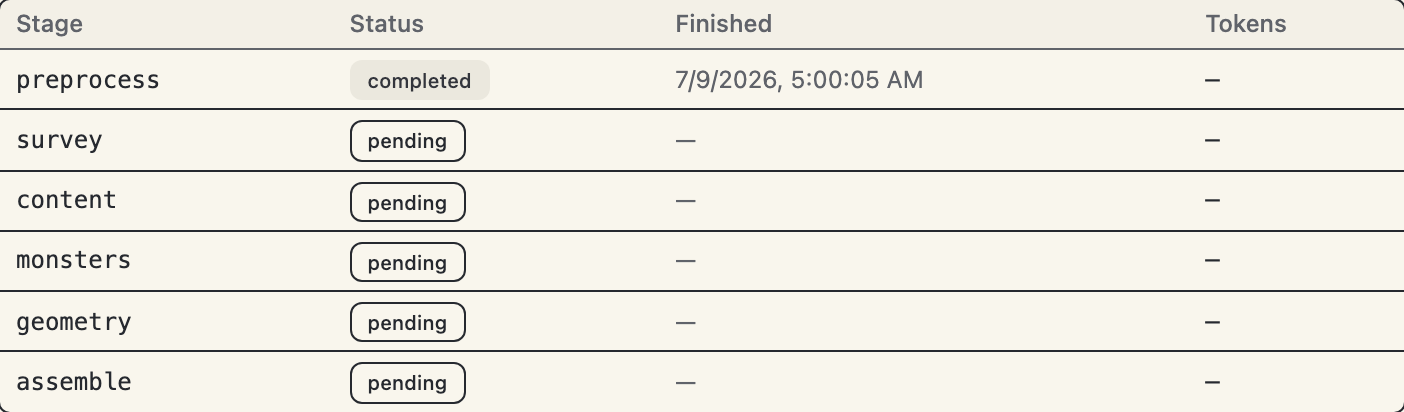
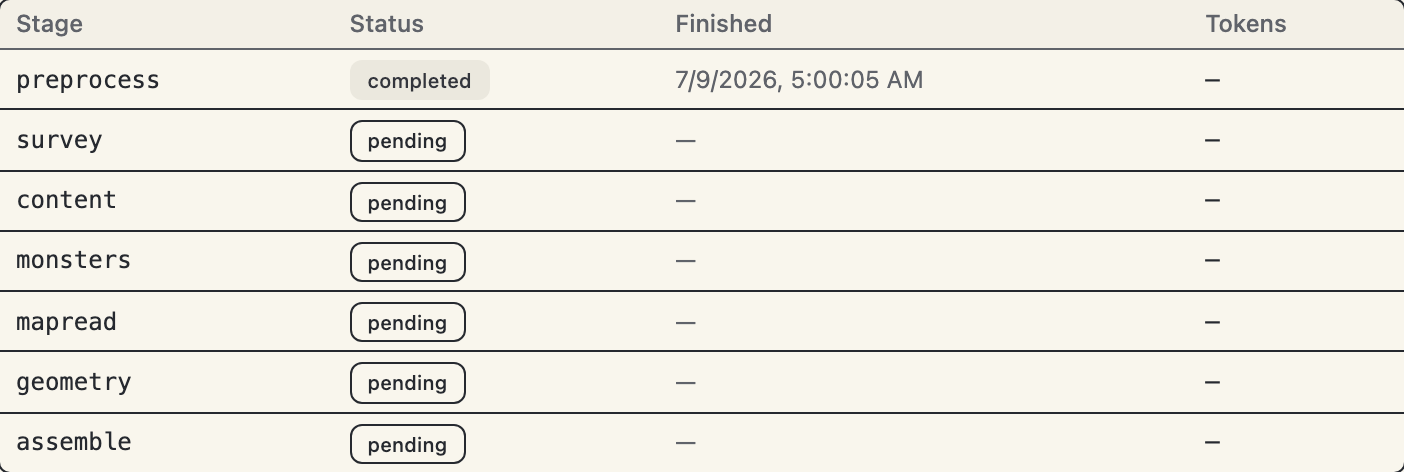
Show osr-forge 0.2's mapread stage, census request, flags, and vetoed picks
The editor now handles everything osr-forge 0.2.0 adds to a conversion.

- The stage rows run preprocess, survey, content, monsters, mapread,
  geometry, assemble. A workdir that osr-forge 0.1 converted has no mapread
  entry in run.json, so its mapread row reads pending.
- Mapread calls the model, so a rerun from mapread needs a provider, and
  the confirm copy names it among the stages a resume runs.
- The estimate card lists the census and mapread requests as rows, so its
  rows add up to the estimate's totals.
- The review queue parses resolution_suspect, survey_disputed, and
  map_disputed.
- The monster-resolution panel shows a vetoed pick and the veto's detail on
  the row of the name it was vetoed for.
- render_workdir_previews returns only the level SVGs. osr-forge 0.2 also
  returns previews/index.html, which made the previews route fail.

The chunk's tests lose their xfail and skip markers. The estimate-card and
pipeline-stages screenshots are recaptured, the forge-backed review guide
describes vetoed picks, and the changelog entry for the 0.2 requirement
says what the editor shows.

Claude-Session: https://claude.ai/code/session_01YawzxEyAff8ovZSDzNmMAK

Changed region(s): [[0.0, 0.0291, 1.0, 0.9903]]

diff --git a/frontend/src/lib/conversion.test.ts b/frontend/src/lib/conversion.test.ts
@@ -57,10 +57,9 @@ describe('the lifecycle predicates', () => {
     expect(firstIncompleteStage(done)).toBe('assemble')
   })
 
-  // chunk: forge-0.2. osr-forge 0.2.0 runs a mapread model stage between
-  // monsters and assemble, so a resume can start there and a resume from
-  // earlier runs it. Remove `.skip` when the chunk merges.
-  test.skip('a chain complete through monsters resumes from mapread', () => {
+  // osr-forge 0.2.0 runs a mapread model stage between monsters and
+  // assemble, so a resume can start there and a resume from earlier runs it.
+  test('a chain complete through monsters resumes from mapread', () => {
     expect(
       firstIncompleteStage(
         makeStageRows({ survey: 'completed', content: 'completed', monsters: 'completed' }),
@@ -68,8 +67,7 @@ describe('the lifecycle predicates', () => {
     ).toBe('mapread')
   })
 
-  // chunk: forge-0.2. Remove `.skip` when the chunk merges.
-  test.skip('the model stages a resume runs are what the confirm copy names', () => {
+  test('the model stages a resume runs are what the confirm copy names', () => {
     expect(modelStagesFrom('preprocess')).toEqual(['survey', 'content', 'monsters', 'mapread'])
     expect(modelStagesFrom('monsters')).toEqual(['monsters', 'mapread'])
     expect(modelStagesFrom('mapread')).toEqual(['mapread'])
@@ -93,11 +91,10 @@ describe('the estimate formatting', () => {
     expect(formatUsd(0)).toBe('$0.00')
   })
 
-  // chunk: forge-0.2. osr-forge 0.2.0 prices the survey's census request and
-  // the mapread stage, and the estimate's totals include both. Each gets a
-  // row in chain order, so the rows add up to the totals. Remove `.skip` when
-  // the chunk merges.
-  test.skip('the per-stage rows are every priced request, in chain order, and sum to the totals', () => {
+  // osr-forge 0.2.0 prices the survey's census request and the mapread
+  // stage, and the estimate's totals include both. Each gets a row in chain
+  // order, so the rows add up to the totals.
+  test('the per-stage rows are every priced request, in chain order, and sum to the totals', () => {
     const estimate = makeCostEstimate()
     const rows = estimateRows(estimate)
     expect(rows).toEqual([

diff --git a/frontend/src/components/monster-resolution-panel.tsx b/frontend/src/components/monster-resolution-panel.tsx
@@ -2,7 +2,8 @@
 // surface. Per name, the two corrections as a stated either/or — remap
 // through the monster picker, or the printed-notation form over forge's
 // StatBlockOverride fields (corrections land pre-mapping; reviewing against
-// the printed page is the point).
+// the printed page is the point). A name whose catalog pick the stat-block
+// veto discarded also shows that pick and the veto's detail on its row.
 import { useState } from 'react'
 
 import { MonsterPicker } from '@/components/monster-picker'
@@ -60,6 +61,9 @@ export function MonsterResolutionPanel({ project }: { project: ProjectState }) {
   const names = new Set<string>(report.monsters.unresolved)
   const customByName = new Map(report.monsters.custom.map((record) => [record.name, record]))
   for (const record of report.monsters.custom) names.add(record.name)
+  const vetoedByName = new Map(
+    report.monsters.vetoed.map((record) => [normalizeName(record.name), record]),
+  )
   return (
     <section
       aria-label="Monster resolution"
@@ -80,6 +84,7 @@ export function MonsterResolutionPanel({ project }: { project: ProjectState }) {
           {[...names].map((name) => {
             const custom = customByName.get(name)
             const existing = overrideFor(project, name)
+            const veto = vetoedByName.get(normalizeName(name))
             return (
               <li
                 key={name}
@@ -105,6 +110,14 @@ export function MonsterResolutionPanel({ project }: { project: ProjectState }) {
                     </span>
                   )}
                 </div>
+                {veto && (
+                  <p className="flex flex-wrap items-center gap-2 text-xs text-muted-foreground">
+                    <Badge variant="outline" className="font-mono text-[10px]">
+                      vetoed: {veto.vetoed_template_id}
+                    </Badge>
+                    {veto.detail && <span>{veto.detail}</span>}
+                  </p>
+                )}
                 {custom && custom.derived.length > 0 && (
                   <p className="flex flex-wrap items-center gap-1 text-xs text-muted-foreground">
                     derived:

diff --git a/frontend/src/lib/conversion.ts b/frontend/src/lib/conversion.ts
@@ -6,9 +6,18 @@ import type { ConversionStageRow, ConversionStateName, CostEstimate, Stage } fro
 
 // Forge's RUNNABLE_STAGES, in chain order: geometry has no independent run —
 // it completes inside every assembly.
-export const RUNNABLE_STAGES: Stage[] = ['preprocess', 'survey', 'content', 'monsters', 'assemble']
+export const RUNNABLE_STAGES: Stage[] = [
+  'preprocess',
+  'survey',
+  'content',
+  'monsters',
+  'mapread',
+  'assemble',
+]
 
-export const MODEL_STAGES: Stage[] = ['survey', 'content', 'monsters']
+// The stages that call the model. The survey stage's census request belongs
+// to the survey stage, so it has no entry of its own.
+export const MODEL_STAGES: Stage[] = ['survey', 'content', 'monsters', 'mapread']
 
 // The two states that hold a worker. Everything else is idle: the run control
 // is live, and polling stops.
@@ -73,13 +82,20 @@ export interface EstimateRow {
   output: number
 }
 
-// The per-stage token rows the estimate card lists, in chain order.
+// The token rows the estimate card lists, one per priced request in chain
+// order, so they sum to the estimate's totals. Census is the survey stage's
+// second request.
 export function estimateRows(estimate: CostEstimate): EstimateRow[] {
   return [
     {
       label: 'survey',
       input: estimate.survey_input_tokens,
       output: estimate.survey_output_tokens,
+    },
+    {
+      label: 'census',
+      input: estimate.census_input_tokens,
+      output: estimate.census_output_tokens,
     },
     {
       label: 'content',
@@ -90,6 +106,11 @@ export function estimateRows(estimate: CostEstimate): EstimateRow[] {
       label: 'monsters',
       input: estimate.monsters_input_tokens,
       output: estimate.monsters_output_tokens,
+    },
+    {
+      label: 'mapread',
+      input: estimate.mapread_input_tokens,
+      output: estimate.mapread_output_tokens,
     },
   ]
 }

diff --git a/frontend/src/components/monster-resolution-panel.test.tsx b/frontend/src/components/monster-resolution-panel.test.tsx
@@ -1,6 +1,5 @@
 // @vitest-environment jsdom
-// The monster-resolution panel's vetoed picks (chunk: forge-0.2). Every test is
-// skipped until that chunk merges; the merge removes each `.skip`.
+// The monster-resolution panel's vetoed picks.
 //
 // The contract: osr-forge 0.2.0's stat-block veto discards a catalog pick
 // whose printed Hit Dice contradict it, and the report lists each discarded
@@ -25,7 +24,7 @@ function renderPanel(
   render(<MonsterResolutionPanel project={makeProjectState({ type: 'forge', forge })} />)
 }
 
-test.skip("a vetoed name's row shows the discarded pick and the veto's detail", () => {
+test("a vetoed name's row shows the discarded pick and the veto's detail", () => {
   renderPanel([
     {
       name: 'rat king',
@@ -38,7 +37,7 @@ test.skip("a vetoed name's row shows the discarded pick and the veto's detail", 
   expect(row.getByText('rat king → giant_rat, printed HD 3 vs ½')).toBeInTheDocument()
 })
 
-test.skip('a custom row shows its vetoed pick too, and a veto with no detail shows the pick alone', () => {
+test('a custom row shows its vetoed pick too, and a veto with no detail shows the pick alone', () => {
   renderPanel([{ name: 'mill wisp', vetoed_template_id: 'will_o_wisp', detail: null }])
   const row = within(screen.getByTestId('monster-mill wisp'))
   expect(row.getByText('vetoed: will_o_wisp')).toBeInTheDocument()

diff --git a/frontend/src/lib/review.test.ts b/frontend/src/lib/review.test.ts
@@ -36,10 +36,9 @@ describe('parseFlag', () => {
     expect(parseFlag('geometry_synthesized:')).toBeNull()
   })
 
-  // chunk: forge-0.2. osr-forge 0.2.0 adds three flags to the report's
-  // vocabulary, and the queue badges them like the flags it already knows.
-  // Remove `.skip` when the chunk merges.
-  test.skip("parses osr-forge 0.2's three new flags", () => {
+  // osr-forge 0.2.0 adds three flags to the report's vocabulary, and the
+  // queue badges them like the flags it already knows.
+  test("parses osr-forge 0.2's three new flags", () => {
     expect(
       parseFlag('map_disputed:door 17–18 prose-stated door; the map shows none — kept'),
     ).toEqual({

diff --git a/frontend/src/components/pipeline-panel.test.tsx b/frontend/src/components/pipeline-panel.test.tsx
@@ -41,9 +41,9 @@ describe('PipelinePanel', () => {
     expect(screen.getByText('fixture-model-1')).toBeInTheDocument()
   })
 
-  // chunk: forge-0.2. run.json's mapread entry renders as its own row,
-  // between monsters and geometry. Remove `.skip` when the chunk merges.
-  test.skip("renders run.json's mapread row in chain order", () => {
+  // run.json's mapread entry renders as its own row, between monsters and
+  // geometry.
+  test("renders run.json's mapread row in chain order", () => {
     render(<PipelinePanel project={forgeProject()} />)
     const rows = screen.getAllByTestId(/^stage-row-/).map((row) => row.dataset.testid)
     expect(rows).toEqual([

diff --git a/frontend/src/components/pipeline-panel.tsx b/frontend/src/components/pipeline-panel.tsx
@@ -20,7 +20,15 @@ import { refreshProviderStatus, setProviderStatus, useProviderStatus } from '@/l
 import { projectStore, useProjectStore } from '@/store/project-store'
 import type { ConversionStageRow, ProjectState, Stage } from '@/types'
 
-const STAGE_ORDER: Stage[] = ['preprocess', 'survey', 'content', 'monsters', 'geometry', 'assemble']
+const STAGE_ORDER: Stage[] = [
+  'preprocess',
+  'survey',
+  'content',
+  'monsters',
+  'mapread',
+  'geometry',
+  'assemble',
+]
 
 function toastApiError(error: unknown): void {
   if (error instanceof ApiRequestError) {

diff --git a/frontend/src/lib/review.ts b/frontend/src/lib/review.ts
@@ -17,6 +17,9 @@ export const FLAGS = [
   'transition_guessed',
   'treasure_unparsed',
   'page_unreadable',
+  'resolution_suspect',
+  'survey_disputed',
+  'map_disputed',
 ] as const
 
 export type FlagKind = (typeof FLAGS)[number]

diff --git a/tests/test_conversions.py b/tests/test_conversions.py
@@ -47,11 +47,6 @@ from osreditor.errors import (
 )
 from osreditor.store import LocalProjectStore
 
-# Chunk forge-0.2: the editor's conversion layer catches up with osr-forge
-# 0.2.0, which adds the census request to the survey stage and the mapread
-# model stage between monsters and assembly.
-FORGE_02 = pytest.mark.xfail(reason="chunk: forge-0.2", strict=True)
-
 
 @pytest.fixture
 def service() -> DocumentService:
@@ -100,7 +95,6 @@ class CancellingProvider:
 # --- the pdf lifecycle --------------------------------------------------------
 
 
-@FORGE_02
 def test_the_estimate_prices_the_conversion_and_leaves_the_workdir_warm(minimod_pdf: Path, tmp_path: Path) -> None:
     session = pdf_session(minimod_pdf, tmp_path / "minimod.forge")
     run_estimate(session)
@@ -177,7 +171,6 @@ def test_a_page_cap_breach_is_the_same_session_failure(minimod_pdf: Path, tmp_pa
 # --- the chain ----------------------------------------------------------------
 
 
-@FORGE_02
 def test_confirm_then_run_completes_the_chain_over_the_warm_workdir(
     service: DocumentService, warm_workdir: Path, minimod_fixtures: Path
 ) -> None:
@@ -259,7 +252,6 @@ def test_a_failed_session_re_runs(service: DocumentService, warm_workdir: Path, 
 # --- cancellation -------------------------------------------------------------
 
 
-@FORGE_02
 def test_cancel_takes_effect_at_the_next_stage_boundary_and_the_conversion_resumes(
     service: DocumentService, warm_workdir: Path, minimod_fixtures: Path
 ) -> None:
@@ -420,7 +412,6 @@ def test_a_provider_is_required_exactly_when_the_resumed_chain_has_a_model_stage
     assert needs_provider(Stage.ASSEMBLE) is False
 
 
-@FORGE_02
 def test_a_rerun_from_mapread_needs_a_provider() -> None:
     assert needs_provider(Stage.MAPREAD) is True
 
@@ -429,7 +420,6 @@ def test_mapread_is_a_runnable_stage() -> None:
     assert validate_stage(Stage.MAPREAD) is Stage.MAPREAD
 
 
-@FORGE_02
 def test_the_stage_rows_carry_mapread_between_monsters_and_geometry() -> None:
     expected = (
         Stage.PREPROCESS,
@@ -444,7 +434,6 @@ def test_the_stage_rows_carry_mapread_between_monsters_and_geometry() -> None:
     assert tuple(row.stage for row in seed_stage_rows(None)) == expected
 
 
-@FORGE_02
 def test_a_forge_0_1_run_reads_mapread_as_pending(warm_workdir: Path) -> None:
     # A workdir converted by osr-forge 0.1 has no mapread entry in run.json.
     run = RunMeta.model_validate_json((warm_workdir / "run.json").read_text())
@@ -539,7 +528,6 @@ def test_a_message_less_failure_still_names_itself(
 # --- previews in the state the control exists for ----------------------------
 
 
-@FORGE_02
 def test_previews_render_in_the_pre_assemble_state(
     service: DocumentService, warm_workdir: Path, minimod_fixtures: Path
 ) -> None:

diff --git a/src/osreditor/forge.py b/src/osreditor/forge.py
@@ -7,7 +7,7 @@ facade names from `osrforge`; `rerun`, `RUNNABLE_STAGES`, and `KNOB_STAGES`
 from `osrforge.convert`; `render_previews` from `osrforge.assemble`; the
 provider classes from their `osrforge.providers` homes; contracts from their
 `osrforge.contracts` homes — documented, stable module homes outside the
-five-name facade by forge's own design, with the `>=0.1,<0.2` pin containing
+five-name facade by forge's own design, with the `>=0.2,<0.3` pin containing
 the interim risk. `convert` is deliberately *not* imported: no editor path
 calls it. `estimate()` leaves the workdir preprocess-warm, so a new conversion
 is estimate-then-`rerun(SURVEY)`, and every other resume is `rerun` over the
@@ -398,11 +398,12 @@ def render_workdir_previews(path: Path) -> tuple[Path, ...]:
         ForgeOverrideInvalidError: If an override entry cannot take effect.
     """
     try:
-        return render_previews(path)
+        written = render_previews(path)
     except OverrideError as error:
         raise ForgeOverrideInvalidError(str(error)) from error
     except ValueError as error:
         raise ForgeWorkdirInvalidError(str(error)) from error
+    return tuple(preview for preview in written if preview.suffix == ".svg")
 
 
 def entra_available() -> bool:

diff --git a/tests/test_conversion_routes.py b/tests/test_conversion_routes.py
@@ -287,7 +287,6 @@ def test_a_warm_workdir_opens_into_the_pipeline_view_rather_than_a_dead_end(
 # --- the chain through the API -----------------------------------------------
 
 
-@pytest.mark.xfail(reason="chunk: forge-0.2", strict=True)
 def test_the_chain_runs_to_completion_and_the_workdir_then_opens_into_review(
     client: TestClient, spawn: SpawnRecorder, warm_workdir: Path, fixtures_provider: None
 ) -> None:
@@ -480,9 +479,8 @@ def test_a_bound_session_can_be_reattached_by_the_lookup_after_a_reload(
 # --- previews -----------------------------------------------------------------
 
 
-# Chunk forge-0.2: osr-forge 0.2.0 also writes previews/index.html, which the
-# route must not read as a level preview.
-@pytest.mark.xfail(reason="chunk: forge-0.2", strict=True)
+# osr-forge 0.2.0 also writes previews/index.html, which the route must not
+# read as a level preview.
 def test_previews_are_gated_on_the_caches_they_are_rendered_from(
     client: TestClient, spawn: SpawnRecorder, warm_workdir: Path, fixtures_provider: None
 ) -> None:

diff --git a/src/osreditor/conversions.py b/src/osreditor/conversions.py
@@ -93,6 +93,7 @@ STAGE_ORDER: tuple[Stage, ...] = (
     Stage.SURVEY,
     Stage.CONTENT,
     Stage.MONSTERS,
+    Stage.MAPREAD,
     Stage.GEOMETRY,
     Stage.ASSEMBLE,
 )
@@ -120,7 +121,7 @@ folder before converting into it" into a refusal would be the guard protecting
 nothing at anybody's expense.
 """
 
-MODEL_STAGES = frozenset({Stage.SURVEY, Stage.CONTENT, Stage.MONSTERS})
+MODEL_STAGES = frozenset({Stage.SURVEY, Stage.CONTENT, Stage.MONSTERS, Stage.MAPREAD})
 """The stages that call a provider: survey, content, monsters, and mapread.
 
 Forge requires a provider exactly when the resumed chain contains any of them.
